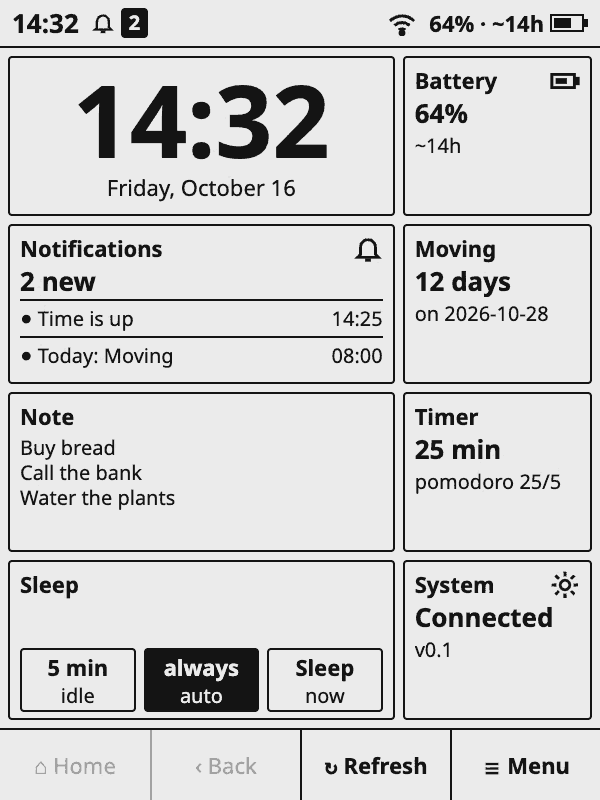
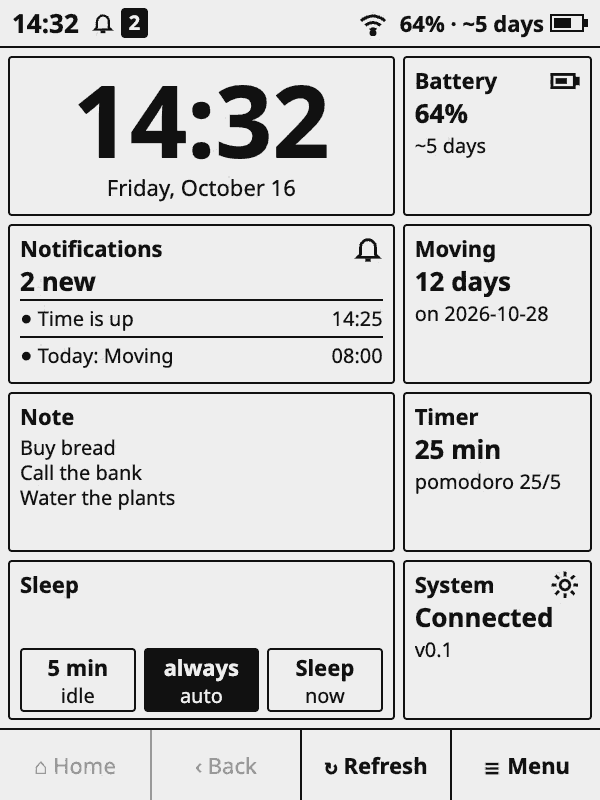
Prototype: battery estimates, choice popup, organizer Hidden (N) popup; regenerate screenshots

Changed region(s): [[0.6, 0.0, 0.9, 0.0625], [0.72, 0.1562, 0.81, 0.2188]]

diff --git a/docs/tinta-prototipo.html b/docs/tinta-prototipo.html
@@ -123,6 +123,7 @@ header.page p { margin: 0; color: var(--muted); max-width: 84ch; }
 .batbig { display: flex; align-items: center; gap: 20px; padding: 4px; }
 .batbig .pct { font-size: 72px; font-weight: 700; line-height: 1; font-variant-numeric: tabular-nums; }
 .batbig .eta { font-size: 22px; }
+.est { font-size: 22px; padding: 0 4px; }
 .chart { border: 2px solid var(--ink); border-radius: 4px; padding: 6px; }
 .chart svg { display: block; width: 100%; height: auto; }
 .mini { display: grid; grid-template-columns: repeat(4, 1fr); gap: 8px; }
@@ -166,8 +167,6 @@ header.page p { margin: 0; color: var(--muted); max-width: 84ch; }
 .map button { all: unset; box-sizing: border-box; border: 2px solid var(--ink); border-radius: 3px; font: 700 20px var(--font-kindle); display: flex; align-items: center; justify-content: center; text-align: center; overflow: hidden; cursor: pointer; padding: 2px; line-height: 1.1; }
 .map button.sel { background: var(--ink); color: var(--paper); }
 .ctrl .info { font-size: 22px; font-weight: 700; padding: 0 4px; }
-.ctrl .hidden-row { font-size: 20px; padding: 0 4px; }
-.ctrl .hidden-row button { all: unset; text-decoration: underline; cursor: pointer; margin-right: 12px; }
 
 /* sleep page */
 .sleep-note { font-size: 20px; text-align: center; border-top: 2px solid var(--ink); padding-top: 6px; flex: none; }
@@ -184,7 +183,12 @@ header.page p { margin: 0; color: var(--muted); max-width: 84ch; }
 .dialog h3 { margin: 0; font-size: 26px; }
 .dialog p { margin: 0; font-size: 22px; }
 .dialog .btnrow { justify-content: flex-end; }
-.toast { position: absolute; left: 50%; transform: translateX(-50%); background: var(--ink); color: var(--paper); font-size: 22px; font-weight: 700; padding: 12px 18px; border-radius: 4px; white-space: nowrap; max-width: calc(100% - 24px); overflow: hidden; text-overflow: ellipsis; }
+/* choice popup (6.10): 500 px wide, 3 px border, title, one 64 px row per option, backdrop under it takes every tap */
+.pick { position: absolute; left: 50%; top: 50%; width: 500px; max-width: calc(100% - 40px); transform: translate(-50%, -50%); background: var(--paper); border: 3px solid var(--ink); border-radius: 6px; padding: 18px; display: flex; flex-direction: column; gap: 8px; }
+.pick h3 { margin: 0; font-size: 26px; line-height: 1.3; }
+.pick .plist { display: flex; flex-direction: column; gap: 4px; }
+.pick .empty-row { min-height: 64px; display: flex; align-items: center; padding: 0 12px; font-size: 22px; }
+.toast { position: absolute; bottom: 12px; left: 50%; transform: translateX(-50%); background: var(--ink); color: var(--paper); font-size: 22px; font-weight: 700; padding: 12px 18px; border-radius: 4px; white-space: nowrap; max-width: calc(100% - 24px); overflow: hidden; text-overflow: ellipsis; }
 .flash { position: absolute; inset: 0; background: var(--ink); pointer-events: none; }
 
 /* ---------------------------------------------------------------- panel */
@@ -267,7 +271,8 @@ body.shot .device { padding: 0; border-radius: 0; background: none; box-shadow: 
       <ul class="plain">
         <li>Tap the widgets, the bell, the clock or the bottom bar, as on the device.</li>
         <li><b>Menu › Apps</b> opens the launcher; <b>Menu › Organize home</b> opens the organizer.</li>
-        <li>URL parameters: <code>?view=home|yourapps|central|apps|sleep|sistema|sleepcfg|organizar|relogio|timer|nota|contagem|bateria|clima|servidor|modelo</code>, <code>&amp;land=1</code>, <code>&amp;style=analogico</code>, <code>&amp;samples=1</code> (list the sample apps in Apps) and <code>&amp;shot=1</code> (only the screen, in real px, for the screenshots).</li>
+        <li>URL parameters: <code>?view=home|yourapps|central|apps|sleep|sistema|sleepcfg|organizar|relogio|timer|nota|contagem|bateria|clima|servidor|modelo</code>, <code>&amp;land=1</code>, <code>&amp;style=analogico</code>, <code>&amp;samples=1</code> (list the sample apps in Apps), <code>&amp;popup=idle|after|wake|titles</code> (with <code>view=sleepcfg</code>: opens that choice popup), <code>&amp;popup=hidden</code> (with <code>view=organizar</code>, and <code>&amp;org=sleep</code> for the Sleep tab: the Hidden (N) popup) and <code>&amp;shot=1</code> (only the screen, in real px, for the screenshots).</li>
+        <li>Rows with several options (System › Sleep) open a choice popup; tap outside it, the bottom bar or press Esc to cancel.</li>
         <li>The time is fixed (Friday, October 16, 14:32) so the screenshots are reproducible.</li>
       </ul>
     </section>
@@ -285,7 +290,7 @@ const S = {
   wifi: "on", pct: 64, landscape: P.get("land") === "1", style: P.get("style") || "data",
   sleep: P.get("view") === "sleep", menu: P.get("menu") === "1",
   samples: P.get("samples") === "1" || ["yourapps", "clima", "servidor", "modelo"].includes(P.get("view")),
-  orgMode: "home", sel: "nota", sleepEvery: 1800, idleMode: "always", idleMin: 5, wake: "schedule",
+  orgMode: "home", sel: "nota", sleepEvery: 1800, idleMode: "always", idleMin: 5, wake: "schedule", titles: "show", popup: null, toast: "",
   timerSel: "pomo",
   layout: {
     home: [
@@ -334,7 +339,10 @@ const isHome = () => ["home", "yourapps"].includes(current().r);
 const unread = () => S.notifs.filter(n => !n.read);
 const NAME = { timer: "Timer", contagem: "Countdown", bateria: "Battery", sistema: "System" };
 const hm = "14:32";
-const eta = "~14h";
+const WAKE_TXT = { 900: "every 15 min", 1800: "every 30 min", 3600: "every 1 h", 7200: "every 2 h", schedule: "by schedule", never: "never" };
+const eta = "~5 days";           // main estimate: the real pace (sleep included) is preferred (status bar, widgets, sleep page)
+const etaAwake = "~14h";         // awake with Wi-Fi: only on the Battery screen
+const mA = "5 mA";               // average current behind the main estimate
 
 // ---------------------------------------------------------------- icons
 const I = (body, w = 30) => `<svg width="${w}" height="${w}" viewBox="0 0 32 32" fill="none" stroke="currentColor" stroke-width="3">${body}</svg>`;
@@ -554,7 +562,7 @@ function sistemaScreen() {
     row('data-org="home"', "Organize", "Home and sleep page", "›"),
     row('data-act="noop"', "Notifications", "per app, top banner, sleep", "›"),
     row('data-act="noop"', "Updates", "intervals, windows, quiet 23h–7h", "›"),
-    row('data-go="sleepcfg"', "Sleep", `sleeps by itself: ${({always:"always",battery:"on battery only",never:"never"})[S.idleMode]} · refreshes: by schedule`, "›"),
+    row('data-go="sleepcfg"', "Sleep", `sleeps by itself: ${({always:"always",battery:"on battery only",never:"never"})[S.idleMode]} · refreshes: ${WAKE_TXT[S.wake]}`, "›"),
     row('data-act="noop"', "Connections", S.samples ? "all responding" : "no servers", "›"),
     row('data-act="noop"', "Screen and navigation", `bar + gestures · ${S.landscape ? "landscape" : "portrait"}`, "›"),
     row('data-act="noop"', "Apps", "settings of each app", "›"),
@@ -568,18 +576,23 @@ function sleepcfgScreen() {
   const modeTxt = { always: "always", battery: "on battery only", never: "never" }[m];
   const modeSub = { always: "plugged in or not", battery: "does not sleep while plugged in", never: "does not sleep by itself" }[m];
   const L = S.landscape;
+  const rowPick = (v, title, sub, right) => row(`data-pick-open="${v}"`, title, sub, right);
   return `${appHeader("Sleep")}
     <div class="cols ${L ? "two" : ""}">
       ${L ? "" : sec("WHEN TO SLEEP")}
-      ${row('data-act="idlemode"', "Sleep by itself", modeSub, modeTxt)}
-      ${m !== "never" ? row('data-act="noop"', "After", "without touching the screen", `${S.idleMin} min`) : ""}
+      ${rowPick("idle", "Sleep by itself", modeSub, modeTxt)}
+      ${m !== "never" ? rowPick("after", "After", "without touching the screen", `${S.idleMin} min`) : ""}
       ${row('data-act="noop"', "Sleep now", "the power button wakes it", "›")}
       ${L ? "" : sec("WHILE ASLEEP")}
-      ${row('data-act="noop"', "Refresh the screen", "turns Wi-Fi on, refreshes and goes back to sleep", "by schedule")}
-      ${L ? "" : `<div class="notelines">weekdays 07:30–18:30 every 30 min<br>18:30–23:00 every 1 h<br>23:00–07:30 does not refresh<br>(weekends: every 1 h · fixed times in this version)</div>`}
-      ${row('data-act="noop"', "Titles on the sleep page", "hides the title in the top strip", "show")}
+      ${rowPick("wake", "Refresh the screen", "turns Wi-Fi on, refreshes and goes back to sleep", WAKE_TXT[S.wake])}
+      ${L || S.wake !== "schedule" ? "" : `<div class="notelines">weekdays 07:30–18:30 every 30 min<br>18:30–23:00 every 1 h<br>23:00–07:30 does not refresh<br>(weekends: every 1 h · fixed times in this version)</div>`}
+      ${rowPick("titles", "Titles on the sleep page", "hides the title in the top strip", S.titles)}
       ${row('data-go="organizar"', "What shows on the screen", `${S.layout.sleep.length} widgets · edit in the organizer`, "›")}
     </div>`;
+}
+// apps that can come back: hidden from Home, or not on the sleep page (never System there); samples only when listed
+function hiddenApps(mode) {
+  return Object.keys(APPS).filter(id => !S.layout[mode].some(x => x.id === id) && !(mode === "sleep" && id === "sistema") && (!APPS[id].sample || S.samples));
 }
 function organizeScreen() {
   const mode = S.orgMode, list = S.layout[mode];
@@ -589,20 +602,21 @@ function organizeScreen() {
     const label = it.w >= 2 ? APPS[it.id].short : APPS[it.id].short.slice(0, 2);
     return `<button type="button" class="${it.id === sel.id ? "sel" : ""}" data-sel="${it.id}" style="grid-column:${it.x + 1}/span ${it.w};grid-row:${it.y + 1}/span ${it.h}">${esc(label)}${it.w >= 2 && it.h >= 2 ? "<br>" + it.size.replace("x", "×") : ""}</button>`;
   }).join("");
-  const free = Object.keys(APPS).filter(id => !list.some(x => x.id === id) && id !== "sistema" && !APPS[id].sample);
+  const n = hiddenApps(mode).length;
+  const before = '<button type="button" class="scr-btn">↑ Before</button>', after = '<button type="button" class="scr-btn">↓ After</button>', size = '<button type="button" class="scr-btn">Size ▸</button>';
+  // landscape: Before / After share a row, Size on its own line (the side column also has to fit Hidden (N))
+  const moves = S.landscape ? `<div class="btnrow fill">${before}${after}</div><div class="btnrow fill">${size}</div>` : `<div class="btnrow fill">${before}${after}${size}</div>`;
   return `${appHeader("Organize", "1 page")}
     <div class="org">
       <div class="seg-k"><button type="button" data-act="org-home" aria-pressed="${mode === "home"}">Home</button><button type="button" data-act="org-sleep" aria-pressed="${mode === "sleep"}">Sleep</button></div>
       <div class="map">${map}</div>
       <div class="ctrl">
         <div class="info">${esc(APPS[sel.id].name)} · ${sel.size.replace("x", "×")}</div>
+        ${moves}
         <div class="btnrow fill">
-          <button type="button" class="scr-btn">↑ Before</button><button type="button" class="scr-btn">↓ After</button><button type="button" class="scr-btn">Size ▸</button>
+          <button type="button" class="scr-btn" data-act="hide">${mode === "sleep" ? "Remove" : "Hide"}</button><button type="button" class="scr-btn inv" data-act="back">Done</button>
         </div>
-        <div class="btnrow fill">
-          <button type="button" class="scr-btn">${mode === "sleep" ? "Remove" : "Hide"}</button><button type="button" class="scr-btn inv" data-act="back">Done</button>
-        </div>
-        <div class="hidden-row">${mode === "sleep" ? (free.length ? "Add: " + free.map(id => `<button type="button">${esc(APPS[id].name)}</button>`).join("") : "No apps to add.") : "No hidden apps."}</div>
+        <div class="btnrow fill"><button type="button" class="scr-btn" data-act="hidden" ${n ? "" : "disabled"}>Hidden (${n})</button></div>
       </div>
     </div>`;
 }
@@ -641,19 +655,76 @@ function contagemScreen() {
   return `${appHeader("Countdown")}<div class="list">${rows}</div><button type="button" class="scr-btn inv">New</button>`;
 }
 function bateriaScreen() {
-  const W = 560, H = S.landscape ? 150 : 220, L = 44, R = 10, T = 10, B = 30;
+  const W = 560, H = S.landscape ? 120 : 220, L = 44, R = 10, T = 10, B = 30;
   const pts = [], n = 24;
   for (let i = 0; i < n; i++) { const x = L + i * (W - L - R) / (n - 1), y = T + (i * 0.55 + Math.sin(i) * 0.4) * (H - T - B) / 18; pts.push(`${x.toFixed(1)},${y.toFixed(1)}`); }
   const grid = [100, 80, 60].map((p, i) => { const y = T + i * (H - T - B) / 2.4; return `<line x1="${L}" x2="${W - R}" y1="${y}" y2="${y}" stroke-width="1" stroke-dasharray="2 4"/><text x="${L - 6}" y="${y + 6}" text-anchor="end" font-size="18" fill="currentColor" stroke="none">${p}%</text>`; }).join("");
   const hours = [8, 10, 12, 14].map((h, i) => `<text x="${L + i * 150}" y="${H - 6}" font-size="18" fill="currentColor" stroke="none">${h}h</text>`).join("");
   const l = pts[pts.length - 1].split(",");
   return `${appHeader("Battery")}
-    <div class="batbig"><span class="pct">${S.pct}%</span>${batteryIcon(110, 52)}<span class="eta">${eta} left</span></div>
+    <div class="batbig"><span class="pct">${S.pct}%</span>${batteryIcon(110, 52)}<span class="eta">${eta} left · ${mA} on average</span></div>
+    <div class="est">${S.landscape ? `<b>at the current pace ${eta} · awake with Wi-Fi ${etaAwake}</b>` : `<b>at the current pace ${eta}</b><br>awake with Wi-Fi ${etaAwake}`}</div>
     <div class="chart"><svg viewBox="0 0 ${W} ${H}" fill="none" stroke="currentColor">${grid}${hours}<line x1="${L}" x2="${L}" y1="${T}" y2="${H - B}" stroke-width="2"/><line x1="${L}" x2="${W - R}" y1="${H - B}" y2="${H - B}" stroke-width="2"/><polyline points="${pts.join(" ")}" stroke-width="4" stroke-linejoin="round"/><circle cx="${l[0]}" cy="${l[1]}" r="6" fill="currentColor"/></svg></div>
     <div class="mini">
-      <div class="stat"><b>42 mA</b><span>average</span></div><div class="stat"><b>907</b><span>mAh full</span></div>
+      <div class="stat"><b>5 mA</b><span>average</span></div><div class="stat"><b>907</b><span>mAh full</span></div>
       <div class="stat"><b>23 °C</b><span>temperature</span></div><div class="stat"><b>3,120</b><span>samples</span></div>
     </div>`;
+}
+// ---------------------------------------------------------------- choice popup (R-K4, 6.10)
+// A settings row with several options opens this instead of cycling: title, one 64 px row per option, the current one
+// inverted with a "●", paged when it does not fit, a tap outside (or Back) cancels. keepOpen + footer: stays open after a pick.
+// cfg = { title, options: () => [{ value, label, sub }], current, onPick(value), keepOpen, footer, empty }
+const PICK_FOOTER = 72, PICK_PAGER = 72;   // button/pager 64 + gap 8
+function openPopup(cfg) { S.popup = cfg; render(); }
+function closePopup() { S.popup = null; render(); }
+function pickPer(n, avail) {
+  const fit = k => k * 64 + (k - 1) * 4;
+  return n === 0 || fit(n) <= avail ? Math.max(n, 1) : Math.max(1, Math.floor((avail - PICK_PAGER + 4) / 68));
+}
+function popupView() {
+  const cfg = S.popup, [, H] = dims();
+  const opts = cfg.options();
+  // room between the status bar and the bottom bar, minus margins, border + padding, title and gaps
+  const avail = H - 48 - 72 - 16 - 42 - 36 - 8 - (cfg.footer ? PICK_FOOTER : 0);
+  const per = pickPer(opts.length, avail), pages = Math.max(1, Math.ceil(opts.length / per));
+  if (cfg.page === undefined) cfg.page = Math.max(0, Math.floor(opts.findIndex(o => o.value === cfg.current) / per));
+  cfg.page = Math.max(0, Math.min(cfg.page, pages - 1));
+  return { opts, per, pages, page: cfg.page };
+}
+function popupHtml() {
+  const cfg = S.popup, v = popupView();
+  const rows = v.opts.slice(v.page * v.per, (v.page + 1) * v.per).map((o, i) => {
+    const cur = o.value === cfg.current;
+    return row(`data-pick="${v.page * v.per + i}"`, esc(o.label), o.sub ? esc(o.sub) : "", cur ? "●" : "", cur ? "inv" : "");
+  }).join("");
+  const pager = v.pages > 1 ? `<div class="pager"><button type="button" class="scr-btn" data-act="ppage-prev" ${v.page === 0 ? "disabled" : ""}>‹</button><span>${v.page + 1} / ${v.pages}</span><button type="button" class="scr-btn" data-act="ppage-next" ${v.page === v.pages - 1 ? "disabled" : ""}>›</button></div>` : "";
+  const footer = cfg.footer ? `<button type="button" class="scr-btn inv" data-act="pick-done">${esc(cfg.footer)}</button>` : "";
+  return `<div class="backdrop" data-act="pick-cancel"></div><div class="pick"><h3>${esc(cfg.title)}</h3>
+    <div class="plist">${rows || `<div class="empty-row">${esc(cfg.empty || "")}</div>`}</div>${pager}${footer}</div>`;
+}
+const POPUPS = {   // the settings rows of System › Sleep (apps/sistema/screens.lua)
+  idle: () => ({ title: "Sleep by itself", current: S.idleMode, onPick: v => { S.idleMode = v; },
+    options: () => [["always", "plugged in or not"], ["battery", "does not sleep while plugged in"], ["never", "does not sleep by itself"]]
+      .map(([value, sub]) => ({ value, label: { always: "always", battery: "on battery only", never: "never" }[value], sub })) }),
+  after: () => ({ title: "After", current: S.idleMin, onPick: v => { S.idleMin = v; },
+    options: () => [2, 5, 10, 15].map(value => ({ value, label: value + " min" })) }),
+  wake: () => ({ title: "Refresh the screen", current: S.wake, onPick: v => { S.wake = v; },
+    options: () => [900, 1800, 3600, 7200, "schedule", "never"].map(value => ({ value, label: WAKE_TXT[value] })) }),
+  titles: () => ({ title: "Titles on the sleep page", current: S.titles, onPick: v => { S.titles = v; },
+    options: () => ["show", "hide"].map(value => ({ value, label: value })) }),
+  // organizer, R-O4: brings a hidden app back, says so and stays open with the list updated; Done closes
+  hidden: () => {
+    const mode = S.orgMode;
+    return { title: mode === "sleep" ? "Apps not on the sleep page" : "Hidden apps", keepOpen: true, footer: "Done",
+      empty: mode === "sleep" ? "No apps to add." : "No hidden apps.",
+      options: () => hiddenApps(mode).map(value => ({ value, label: APPS[value].name })),
+      onPick: id => { S.layout[mode].push({ id, size: APPS[id].sizes[0] }); S.sel = id; showToast(`${APPS[id].name} added`); } };
+  },
+};
+let toastTimer = 0;
+function showToast(text) {
+  S.toast = text; clearTimeout(toastTimer);
+  toastTimer = setTimeout(() => { S.toast = ""; render(); }, 2600);
 }
 function menuSheet() {
   const home = isHome();
@@ -685,25 +756,34 @@ function render() {
   let content;
   if (S.sleep) content = sleepPage();
   else content = (SCREENS[r] || homeScreen)();
-  scr.innerHTML = statusBar() + `<div class="content">${content}${S.menu && !S.sleep ? menuSheet() : ""}</div>` + (S.sleep ? "" : navBar());
+  scr.innerHTML = statusBar() + `<div class="content">${content}${S.menu && !S.sleep ? menuSheet() : ""}${S.popup && !S.sleep ? popupHtml() : ""}${S.toast ? `<div class="toast">${esc(S.toast)}</div>` : ""}</div>` + (S.sleep ? "" : navBar());
   $("#caption").textContent = `Kindle KT3 · ${W} × ${H} · ${S.landscape ? "landscape" : "portrait"}`;
   for (const [id, sel] of [["seg-orient", S.landscape ? "landscape" : "portrait"], ["seg-style", S.style], ["seg-view", S.sleep ? "sleep" : r]])
     document.querySelectorAll(`#${id} button`).forEach(b => b.setAttribute("aria-pressed", String(b.dataset.v === sel)));
 }
-function push(r) { S.menu = false; S.sleep = false; S.stack.push({ r }); render(); }
+function push(r) { S.popup = null; S.menu = false; S.sleep = false; S.stack.push({ r }); render(); }
 function setView(v) {
-  S.menu = false;
+  S.menu = false; S.popup = null;
   if (v === "sleep") { S.sleep = true; } else { S.sleep = false; S.stack = [{ r: v }]; }
   if (v === "organizar") { S.stack = [{ r: "home" }, { r: "sistema" }, { r: "organizar" }]; }
   render();
 }
 document.addEventListener("click", e => {
-  const t = e.target.closest("[data-open],[data-act],[data-go],[data-org],[data-sel],[data-style],[data-timersel],[data-v]");
+  // the popup is modal: a tap anywhere else on the screen (bottom bar included) cancels it
+  if (S.popup && e.target.closest("#screen") && !e.target.closest(".pick")) return closePopup();
+  const t = e.target.closest("[data-pick],[data-pick-open],[data-open],[data-act],[data-go],[data-org],[data-sel],[data-style],[data-timersel],[data-v]");
   if (!t) return;
   const d = t.dataset;
   if (d.v !== undefined && t.closest("#seg-view")) return setView(d.v);
   if (d.v !== undefined && t.closest("#seg-orient")) { S.landscape = d.v === "landscape"; return render(); }
   if (d.v !== undefined && t.closest("#seg-style")) { S.style = d.v; return render(); }
+  if (d.pickOpen) return openPopup(POPUPS[d.pickOpen]());
+  if (d.pick !== undefined) {
+    const cfg = S.popup;
+    cfg.onPick(cfg.options()[Number(d.pick)].value);
+    if (!cfg.keepOpen) S.popup = null; else cfg.current = undefined;
+    return render();
+  }
   if (d.open) return push(d.open);
   if (d.go) return push(d.go);
   if (d.org) { S.orgMode = d.org; return push("organizar"); }
@@ -717,7 +797,18 @@ document.addEventListener("click", e => {
     case "menu-close": S.menu = false; return render();
     case "sleep-now": S.menu = false; S.sleep = true; return render();
     case "rotate": S.landscape = !S.landscape; return render();
-    case "idlemode": S.idleMode = { always: "battery", battery: "never", never: "always" }[S.idleMode]; return render();
+    case "pick-cancel": case "pick-done": return closePopup();
+    case "ppage-prev": S.popup.page--; return render();
+    case "ppage-next": S.popup.page++; return render();
+    case "hidden": return openPopup(POPUPS.hidden());
+    case "hide": {
+      const list = S.layout[S.orgMode], i = list.findIndex(x => x.id === S.sel);
+      if (i < 0 || list.length < 2) return;
+      const [gone] = list.splice(i, 1);
+      if (gone.id === "sistema" && S.orgMode === "home") showToast("System is still in the Menu");
+      S.sel = list[Math.min(i, list.length - 1)].id;
+      return render();
+    }
     case "org-home": S.orgMode = "home"; S.sel = "nota"; return render();
     case "org-sleep": S.orgMode = "sleep"; S.sel = "relogio"; return render();
   }
@@ -725,6 +816,8 @@ document.addEventListener("click", e => {
 if (SHOT) document.body.classList.add("shot");
 if (P.get("org") === "sleep") { S.orgMode = "sleep"; S.sel = "relogio"; }
 if (P.get("idle")) S.idleMode = P.get("idle");
+if (P.get("popup") && POPUPS[P.get("popup")]) S.popup = POPUPS[P.get("popup")]();
+addEventListener("keydown", e => { if (e.key === "Escape" && S.popup) closePopup(); });
 if (S.stack[0].r === "organizar") S.stack = [{ r: "home" }, { r: "sistema" }, { r: "organizar" }];
 addEventListener("resize", render);
 document.fonts && document.fonts.ready.then(render);

diff --git a/docs/screenshots/README.md b/docs/screenshots/README.md
@@ -13,12 +13,15 @@ with made-up content. PNG, grayscale (16 levels), 600×800 portrait or 800×600 
 | `apps.png` | Apps launcher (Menu → Apps) |
 | `repouso.png` | Sleep page: status strip, widgets, footer |
 | `sistema-repouso.png` | System → Sleep settings |
-| `organizador.png` | Home organizer |
+| `choice-popup.png` | Choice popup of a settings row (System → Sleep → "Sleep by itself", current option inverted with a ●) |
+| `bateria.png` | Battery screen: main estimate, then the two labelled estimates (current pace, awake with Wi-Fi) |
+| `organizador.png` | Home organizer ("Hidden (0)" disabled) |
+| `organizador-ocultos.png` | Sleep organizer with the "Hidden (N)" popup open |
 | `relogio-estilos.png` | Clock style picker (analog selected) |
 | `timer.png` | Timer screen (pomodoro selected) |
 | `your-apps.png` | Home with the three sample apps, each tagged "sample": Weather (`apps/_exemplo_clima`, a web service), Home server (`apps/_exemplo_json`, your own server, made-up host `nas.lan`) and Counter (`apps/_modelo`, a local app) |
 
-(The file names of the first nine are kept from earlier versions of the README; the content is English.)
+(The file names of the older ones are kept from earlier versions of the README; the content is English.)
 
 ## Regenerate
 
@@ -29,5 +32,7 @@ The prototype takes URL parameters (`?view=…&land=1&style=…&samples=1&shot=1
 pixels) and uses a fixed clock (Friday, October 16, 14:32), so the images come out the same every time. To do it by hand: open
 `docs/tinta-prototipo.html` with the parameters of the image you want in a browser, set the viewport to 600×800 (or 800×600
 for landscape), take a screenshot, and convert to 16-level grayscale with ImageMagick if you want the same size on disk.
+Popups open from the URL for screenshots: `?view=sleepcfg&popup=idle|after|wake|titles` and `?view=organizar&org=sleep&popup=hidden`
+(`choice-popup.png`, `organizador-ocultos.png`).
 To explore the prototype interactively, open it without parameters (it loads Noto Sans from Google Fonts). The sample apps'
 screens are `?view=clima`, `?view=servidor` and `?view=modelo`.
